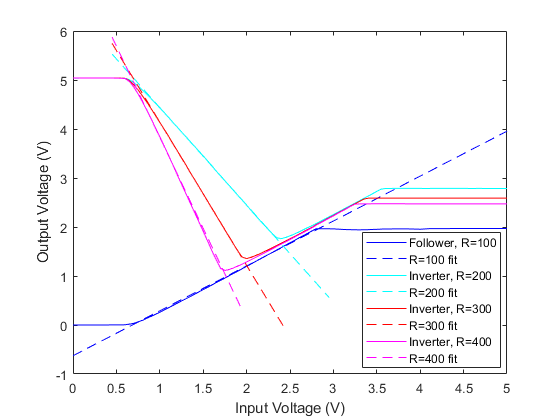
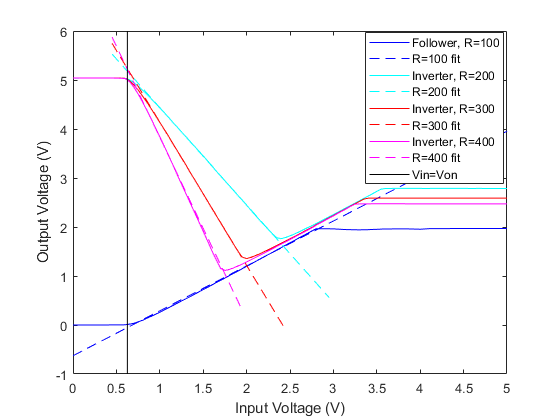
Exp 1 plots done

Changed region(s): [[0.7286, 0.0619, 0.9107, 0.4333], [0.7286, 0.5571, 0.9107, 0.8667], [0.2125, 0.0929, 0.2429, 0.8667]]

diff --git a/Lab 4/lab4_Jamie.m b/Lab 4/lab4_Jamie.m
@@ -1,0 +1,92 @@
+load('Exp1Data.mat')
+%%
+Ic1a = Ie1a - Ib1a;
+Ic1b = Ie1b - Ib1b;
+Ic1c = Ie1c - Ib1c;
+Ic1d = Ie1d - Ib1d;
+Ic_avg = (Ic1a + Ic1b + Ic1c + Ic1d)./4;
+
+pa = polyfit(Vb1a(1:30), log(Ic1a(1:30)), 1);
+pb = polyfit(Vb1b(1:30), log(Ic1b(1:30)), 1);
+pc = polyfit(Vb1c(1:30), log(Ic1c(1:30)), 1);
+pd = polyfit(Vb1d(1:30), log(Ic1d(1:30)), 1);
+
+Is_a = exp(pa(1));
+Is_b = exp(pb(1));
+Is_c = exp(pc(1));
+Is_d = exp(pd(1));
+
+uT_a = 1./pa(2);
+uT_b = 1./pb(2);
+uT_c = 1./pc(2);
+uT_d = 1./pd(2);
+
+B_a = Ic1a ./ Ib1a;
+B_b = Ic1b ./ Ib1b;
+B_c = Ic1c ./ Ib1c;
+B_d = Ic1d ./ Ib1d;
+%% Exp 1 plot 1
+clf
+yyaxis left
+h = semilogy(Vb1a, Ib1a);
+hold on
+semilogy(Vb1b,Ib1b)
+semilogy(Vb1c,Ib1c)
+semilogy(Vb1d,Ib1d)
+hold off
+ylabel('Log of Base Current (A)')
+yyaxis right
+h2 = semilogy(Vb1a, Ic1a,'r');
+hold on
+semilogy(Vb1b,Ic1b)
+semilogy(Vb1c,Ic1c)
+semilogy(Vb1d,Ic1d)
+hold off
+%semilogy(Vb1,exp(y),'m*');
+%semilogy(Vb1,Ict,'k')
+%semilogy(Vb1,Ibt,'m')
+
+%legend('Iba','Ibb','Ibc','Ibd','Ica','Icb',Icc','Icd')
+legend('Q1 Ib','Q2 Ib','Q3 Ib','Q4 Ib','Q1 Ic','Q2 Ic','Q3 Ic','Q4 Ic')
+ylabel('Log of Collector Current (A)')
+xlabel('Base Voltage (V)')
+
+
+%% Exp 1 plot 2
+clf
+
+diff_a = Ic_avg - Ic1a;
+diff_b = Ic_avg - Ic1b;
+diff_c = Ic_avg - Ic1c;
+diff_d = Ic_avg - Ic1d;
+
+perc_a = diff_a ./ Ic_avg;
+perc_b = diff_b ./ Ic_avg;
+perc_c = diff_c ./ Ic_avg;
+perc_d = diff_d ./ Ic_avg;
+
+plot(Vb1a, perc_a)
+hold on
+plot(Vb1b, perc_b)
+plot(Vb1c, perc_c)
+plot(Vb1d, perc_d)
+
+ylabel('Percentage Difference from Average Collector Current')
+xlabel('Base Voltage (V)')
+
+legend('Q1','Q2','Q3','Q4')
+
+
+%% Exp 1 plot 3
+clf
+
+semilogx(abs(Ib1a), B_a,'Marker','.','MarkerSize',12)
+hold on
+semilogx(abs(Ib1b), B_b,'Marker','.','MarkerSize',12)
+semilogx(abs(Ib1c), B_c,'Marker','.','MarkerSize',12)
+semilogx(abs(Ib1d), B_d,'Marker','.','MarkerSize',12)
+
+ylabel('Current Gain, B')
+xlabel('Log of Current (A)')
+
+legend('Q1','Q2','Q3','Q4')

diff --git a/Lab 3/lab3_Jamie.m b/Lab 3/lab3_Jamie.m
@@ -102,18 +102,24 @@ clf
 p2 = polyfit(Vin1003(20:30),Vout1003(20:30),1);
 y2 = polyval(p2,Vin1003);
 
+x = ones(51);
+x = x.*(-p2(2));
+
+vony = linspace(-1,4,51);
+
 plot(Vin1003,Vout1003,'b')
 hold on 
 plot(Vin1003,y2,'b--')
+plot(x,vony,'k')
 xlabel('Input Voltage (V)')
 ylabel('Output Voltage (V)')
-legend('Voltage Transfer Characteristic (VTC)','VTC fit')
+legend('Voltage Transfer Characteristic (VTC)','VTC fit','Vin=Von')
 
 
 %% Experiment 4
 % clear all
 load('Lab3DataExp4.mat');
-
+vony1 = linspace(-1,6,51);
 p3 = polyfit(Vin200(20:40),Vout200(20:40),1);
 y3 = polyval(p3,Vin200(10:60));
 p4 = polyfit(Vin300(20:40),Vout300(20:40),1);
@@ -130,7 +136,8 @@ plot(Vin300,Vout300,'r-')
 plot(Vin300(10:50),y4,'r--')
 plot(Vin400,Vout400,'m-')
 plot(Vin400(10:40),y5,'m--')
+plot(x,vony1,'k')
 xlabel('Input Voltage (V)')
 ylabel('Output Voltage (V)')
-legend('Follower, R=100','R=100 fit','Inverter, R=200','R=200 fit','Inverter, R=300','R=300 fit','Inverter, R=400','R=400 fit')
+legend('Follower, R=100','R=100 fit','Inverter, R=200','R=200 fit','Inverter, R=300','R=300 fit','Inverter, R=400','R=400 fit', 'Vin=Von')
 
